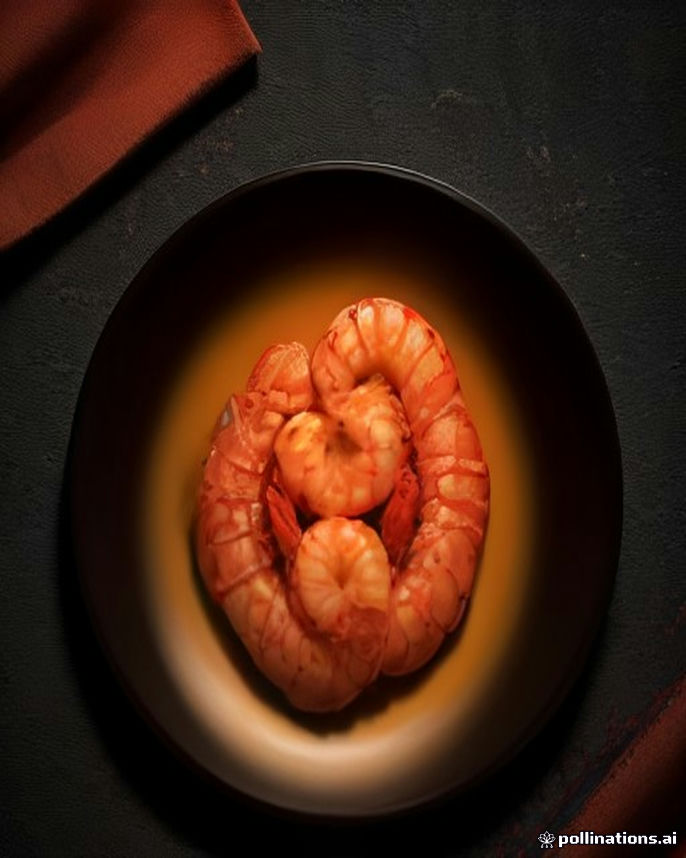
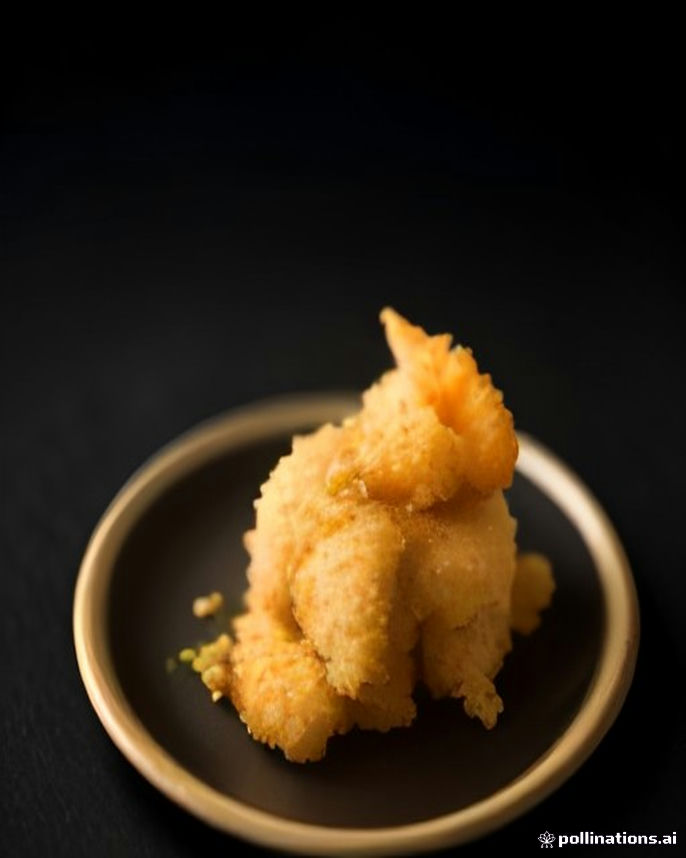
feat: menu as photo cards, breaded king prawns photo

diff --git a/styles/base.css b/styles/base.css
@@ -193,21 +193,29 @@ ul {
 }
 
 .menu-list {
-  max-width: 52rem;
+  display: grid;
+  grid-template-columns: repeat(auto-fit, minmax(230px, 1fr));
+  gap: clamp(1.25rem, 2.5vw, 2rem);
+  max-width: 64rem;
 }
 
 .menu-item {
-  display: grid;
-  grid-template-columns: clamp(72px, 22vw, 176px) minmax(0, 1fr) auto;
-  column-gap: clamp(1rem, 3vw, 2.5rem);
-  align-items: center;
-  padding-block: clamp(1.25rem, 2.6vw, 2rem);
+  display: flex;
+  flex-direction: column;
+  background: var(--surface);
+  border-radius: 12px;
+  overflow: hidden;
+  transition: transform 400ms cubic-bezier(0.2, 0.7, 0.3, 1), box-shadow 400ms ease;
+}
+
+.menu-item:hover {
+  transform: translateY(-4px);
+  box-shadow: 0 16px 32px rgba(0, 0, 0, 0.28);
 }
 
 .menu-photo {
-  aspect-ratio: 5 / 6;
+  aspect-ratio: 4 / 3;
   overflow: hidden;
-  border-radius: 4px;
 }
 
 .menu-photo img,
@@ -219,8 +227,13 @@ ul {
   transition: transform 700ms cubic-bezier(0.2, 0.7, 0.3, 1);
 }
 
+.menu-item:hover .menu-photo img,
 .menu-item:hover .menu-photo svg {
   transform: scale(1.05);
+}
+
+.menu-body {
+  padding: 1.1rem 1.25rem 0.3rem;
 }
 
 .menu-name {
@@ -236,6 +249,13 @@ ul {
   margin-top: 0.375rem;
   color: var(--muted);
   font-size: var(--step-small);
+}
+
+.menu-price {
+  padding: 0.4rem 1.25rem 1.25rem;
+  margin-top: auto;
+  color: var(--muted);
+  font-variant-numeric: tabular-nums;
 }
 
 .menu-price {
